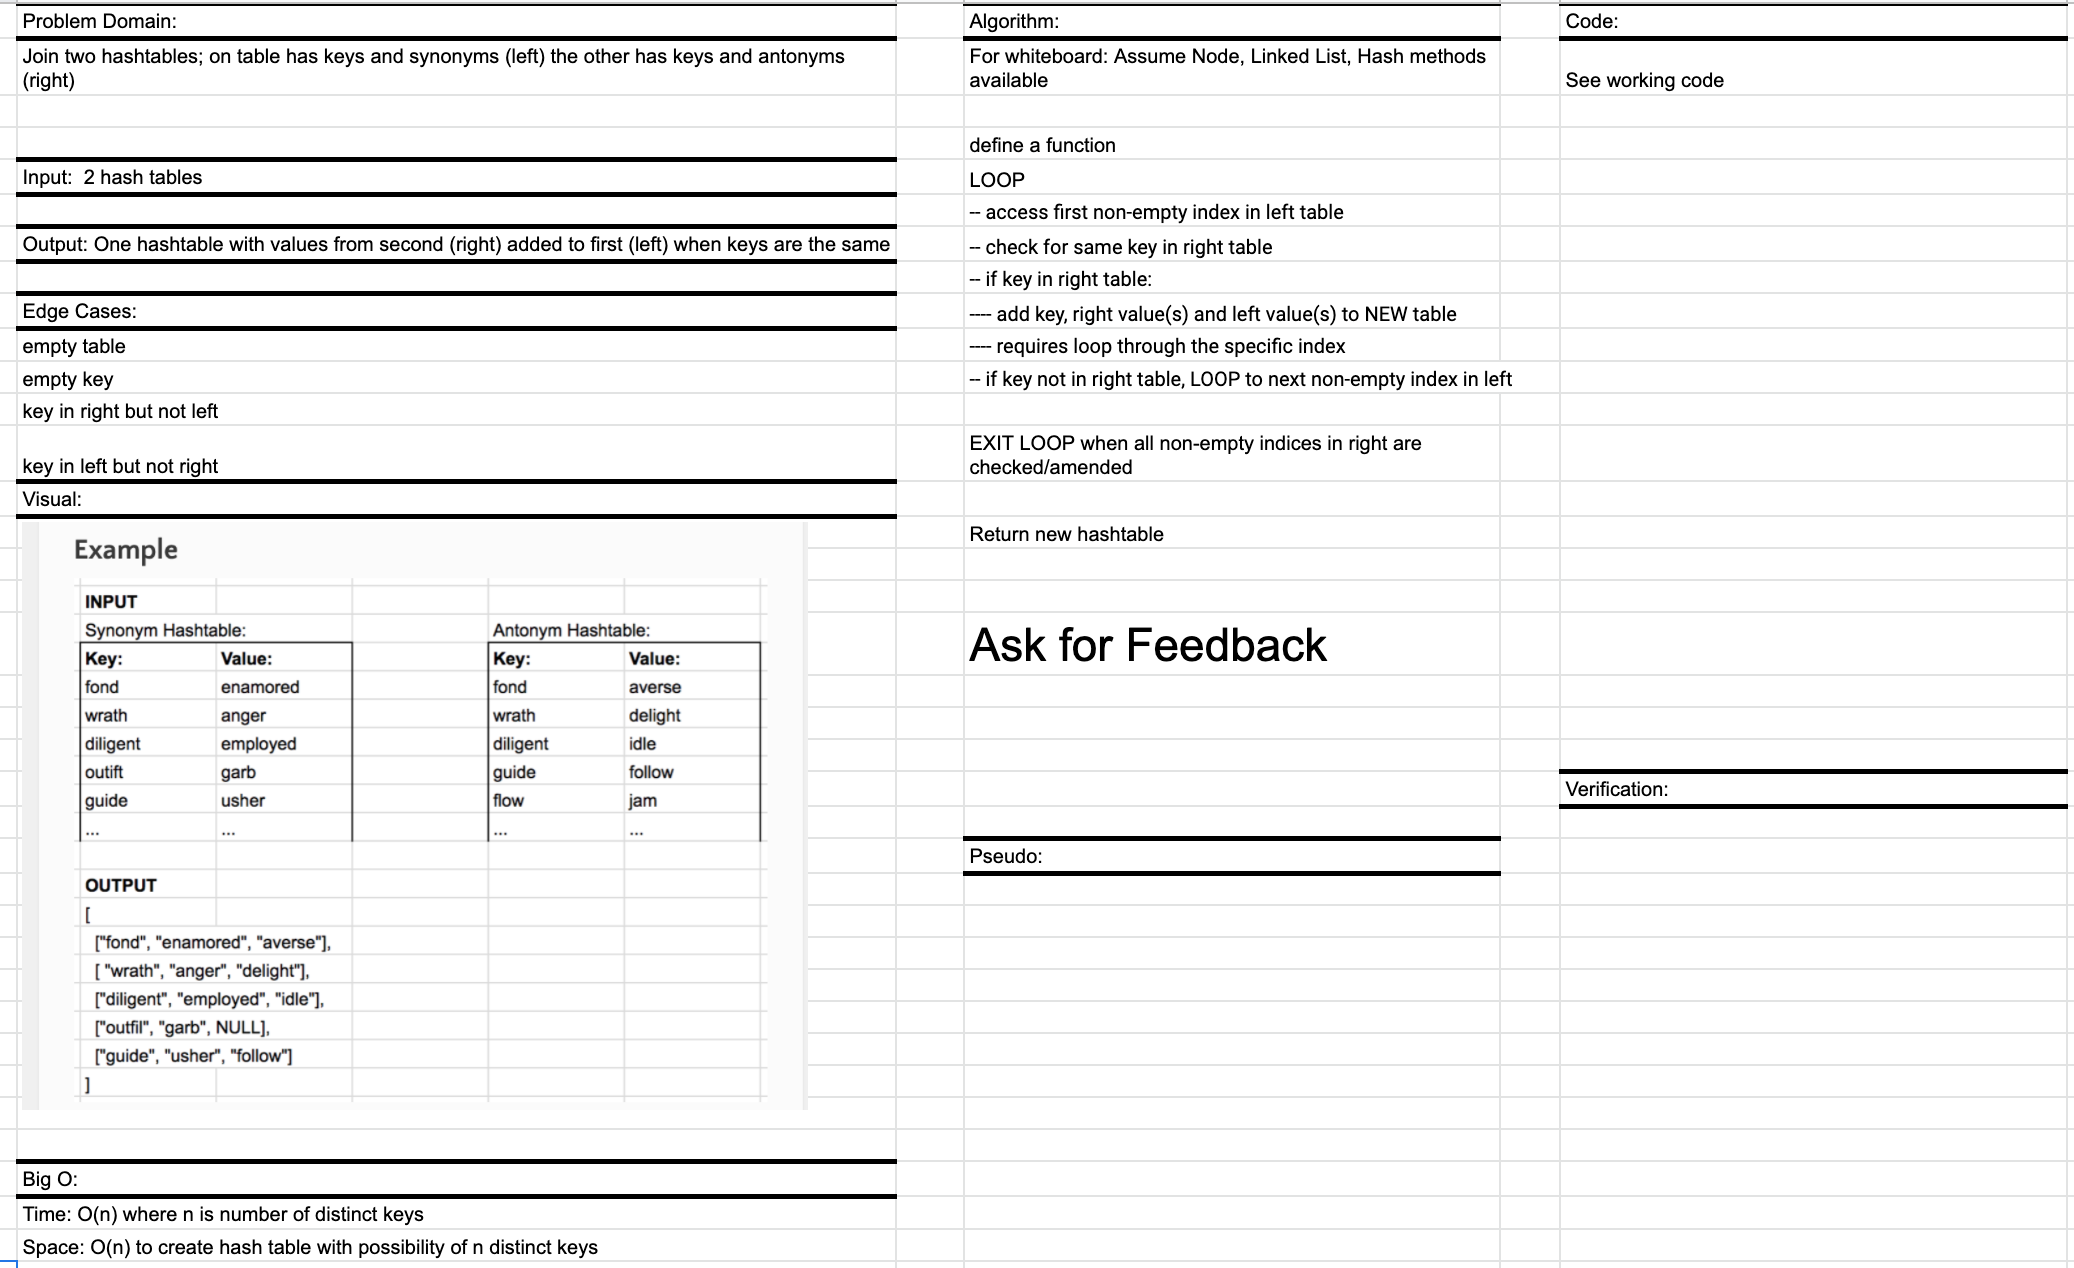
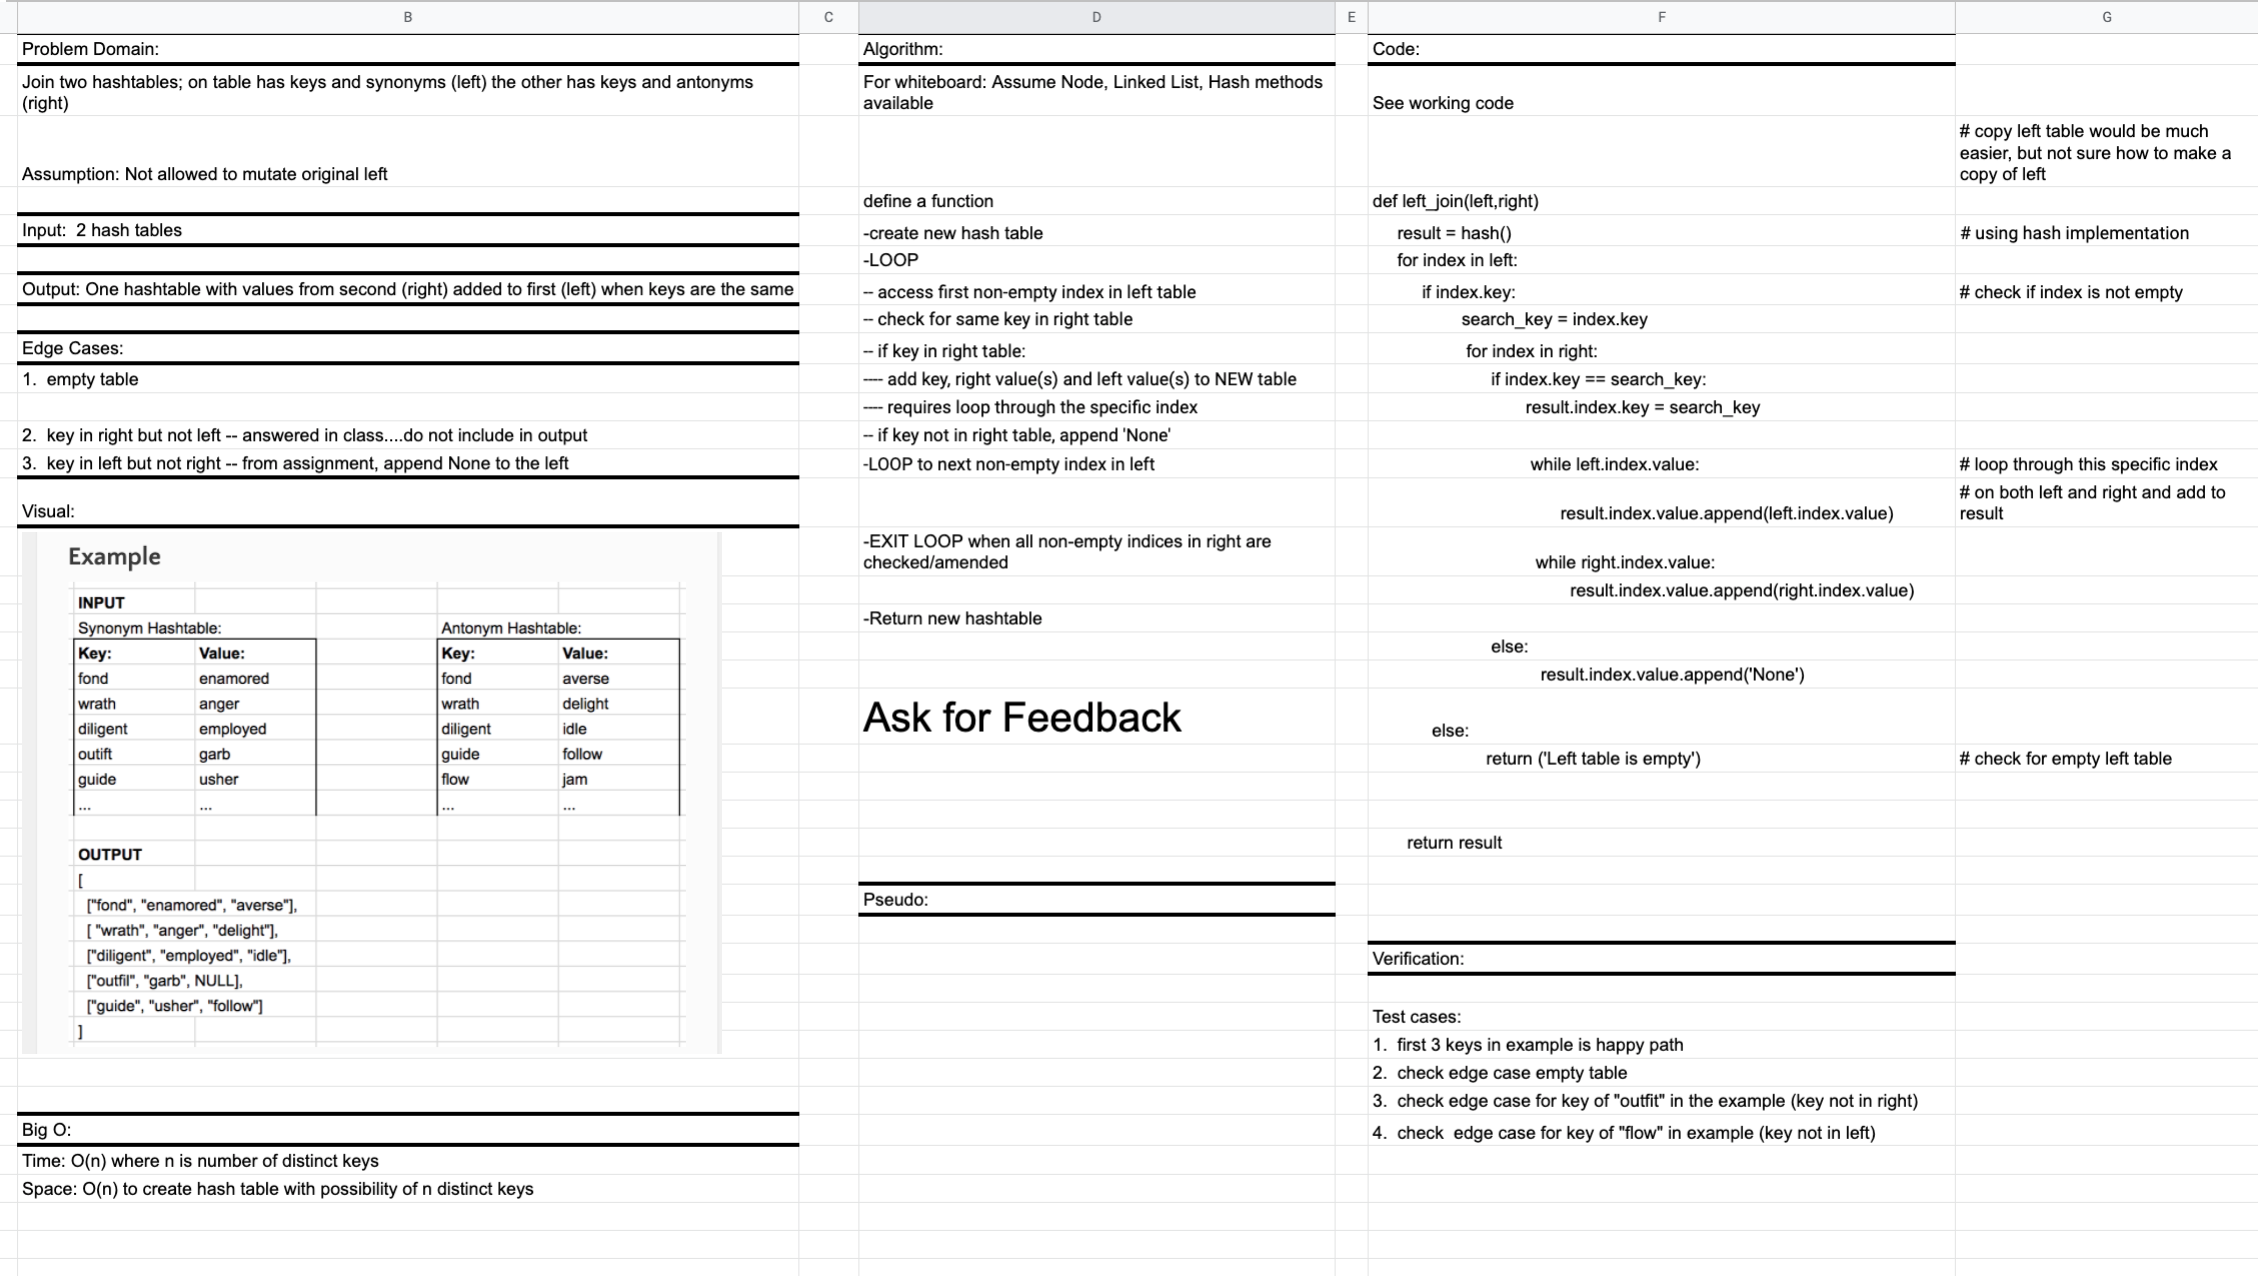
updated whiteboard with code and testing after class lecture

diff --git a/python/code_challenges/left_join/left_join.py b/python/code_challenges/left_join/left_join.py
@@ -1,0 +1,30 @@
+
+# copy left table would be much easier, 
+# but not sure how to make a copy of left
+
+def left_join(left,right)
+    # using hash implementation
+    result = hash() 
+    for index in left:
+        # check if index is not empty
+        if index.key: 
+            search_key = index.key
+                for index in right:
+                    if index.key == search_key:
+                        result.index.key = search_key
+
+                        while left.index.value:
+                            # loop through this specific index
+                            result.index.value.append(left.index.value)
+                        while right.index.value:
+                            # on both left and right and add to result
+                            result.index.value.append(right.index.value)
+
+                    else:
+                        # check for empty left table
+                        result.index.value.append('None')
+        else:
+            return ('Left table is empty')
+
+
+    return result

diff --git a/python/code_challenges/left_join/README.md b/python/code_challenges/left_join/README.md
@@ -38,14 +38,11 @@ Space:  O(n) -- building a return hashtable with as many as n indices and multip
 _____________
 ## Required Testing
 
-No tests required from CC#32 assignment, but write unit test to capture:
-1. happy path
-2. known failure
-3. edge cases (empty tree, one node tree, 3 node tree all same value, negative numbers present; float values will behave the same as int because of python operator defaults)
+No tests required per Roger.  Working code not required.
 _________________
 
 ## Whiteboard
 
-CC#33
+CC#33 (Updated after class discussion)
 ![Left Join Whiteboard](./assets/left-join-whiteboard.png)
 
